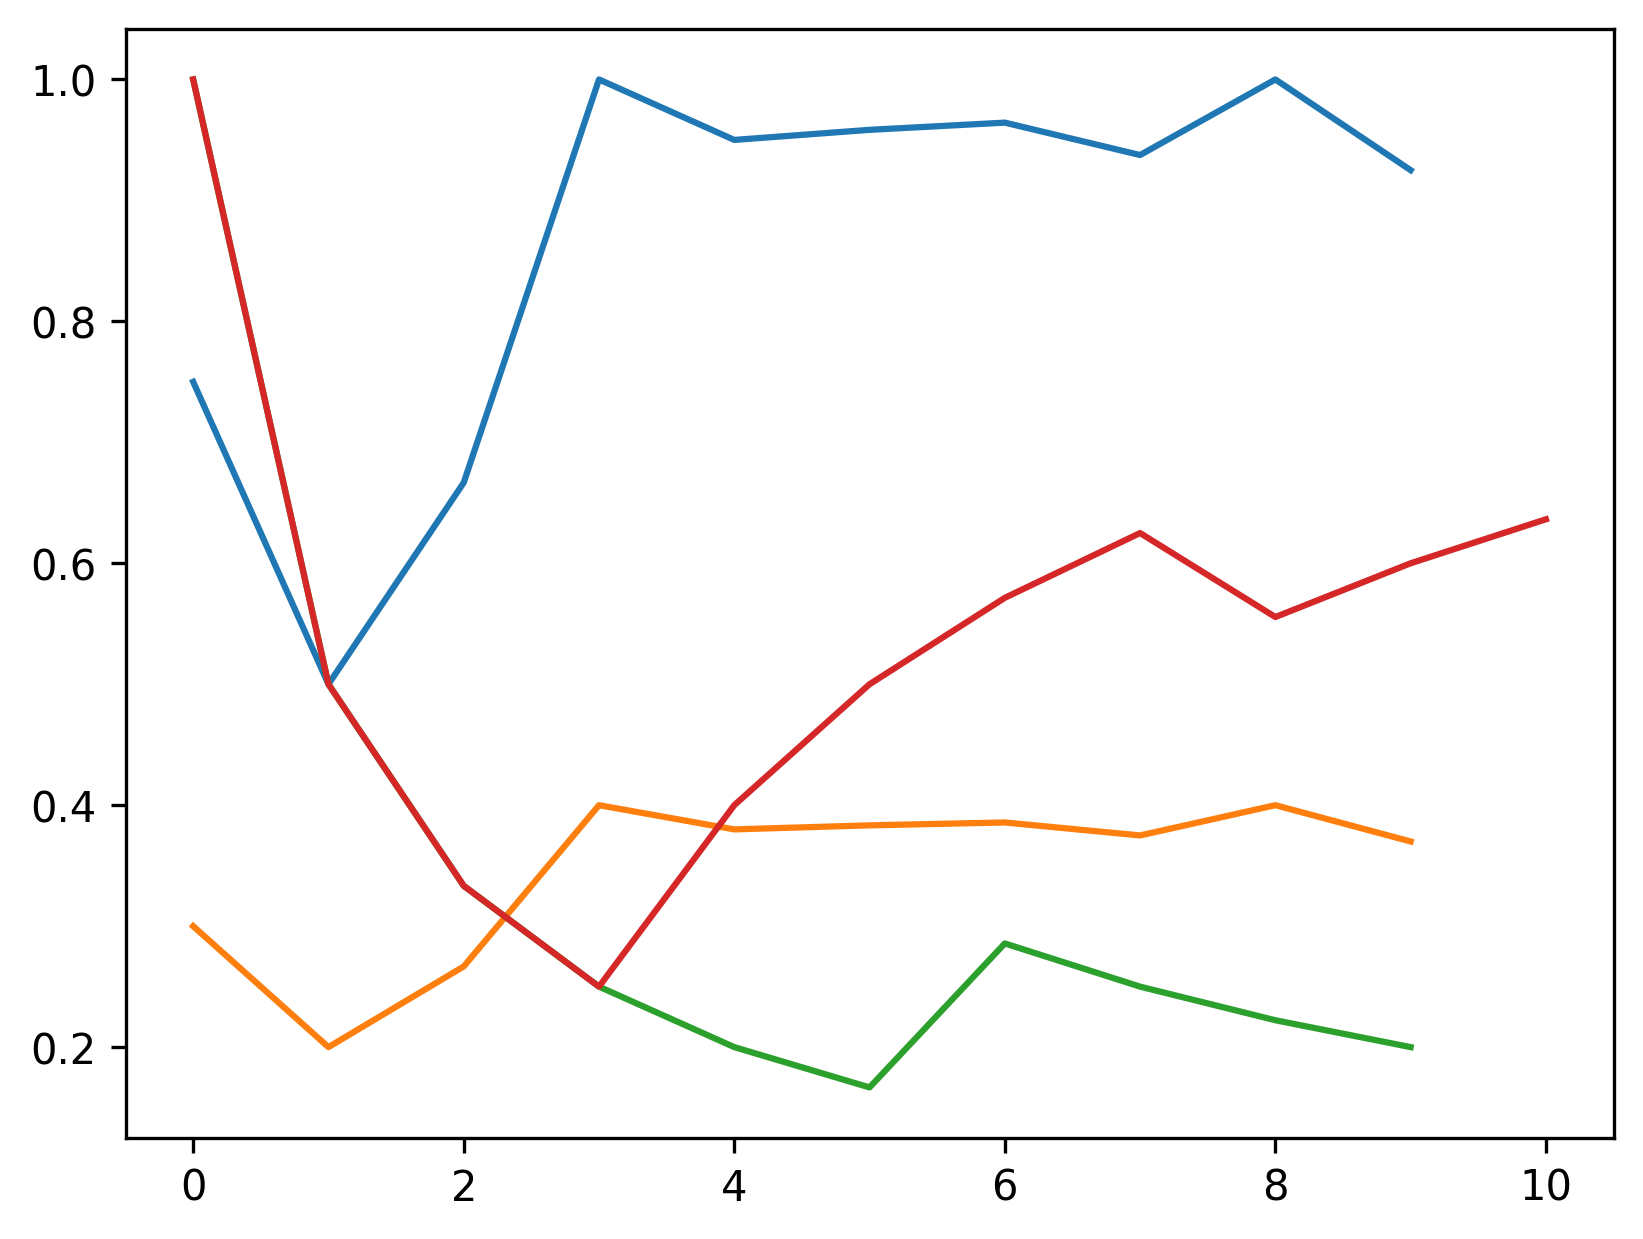
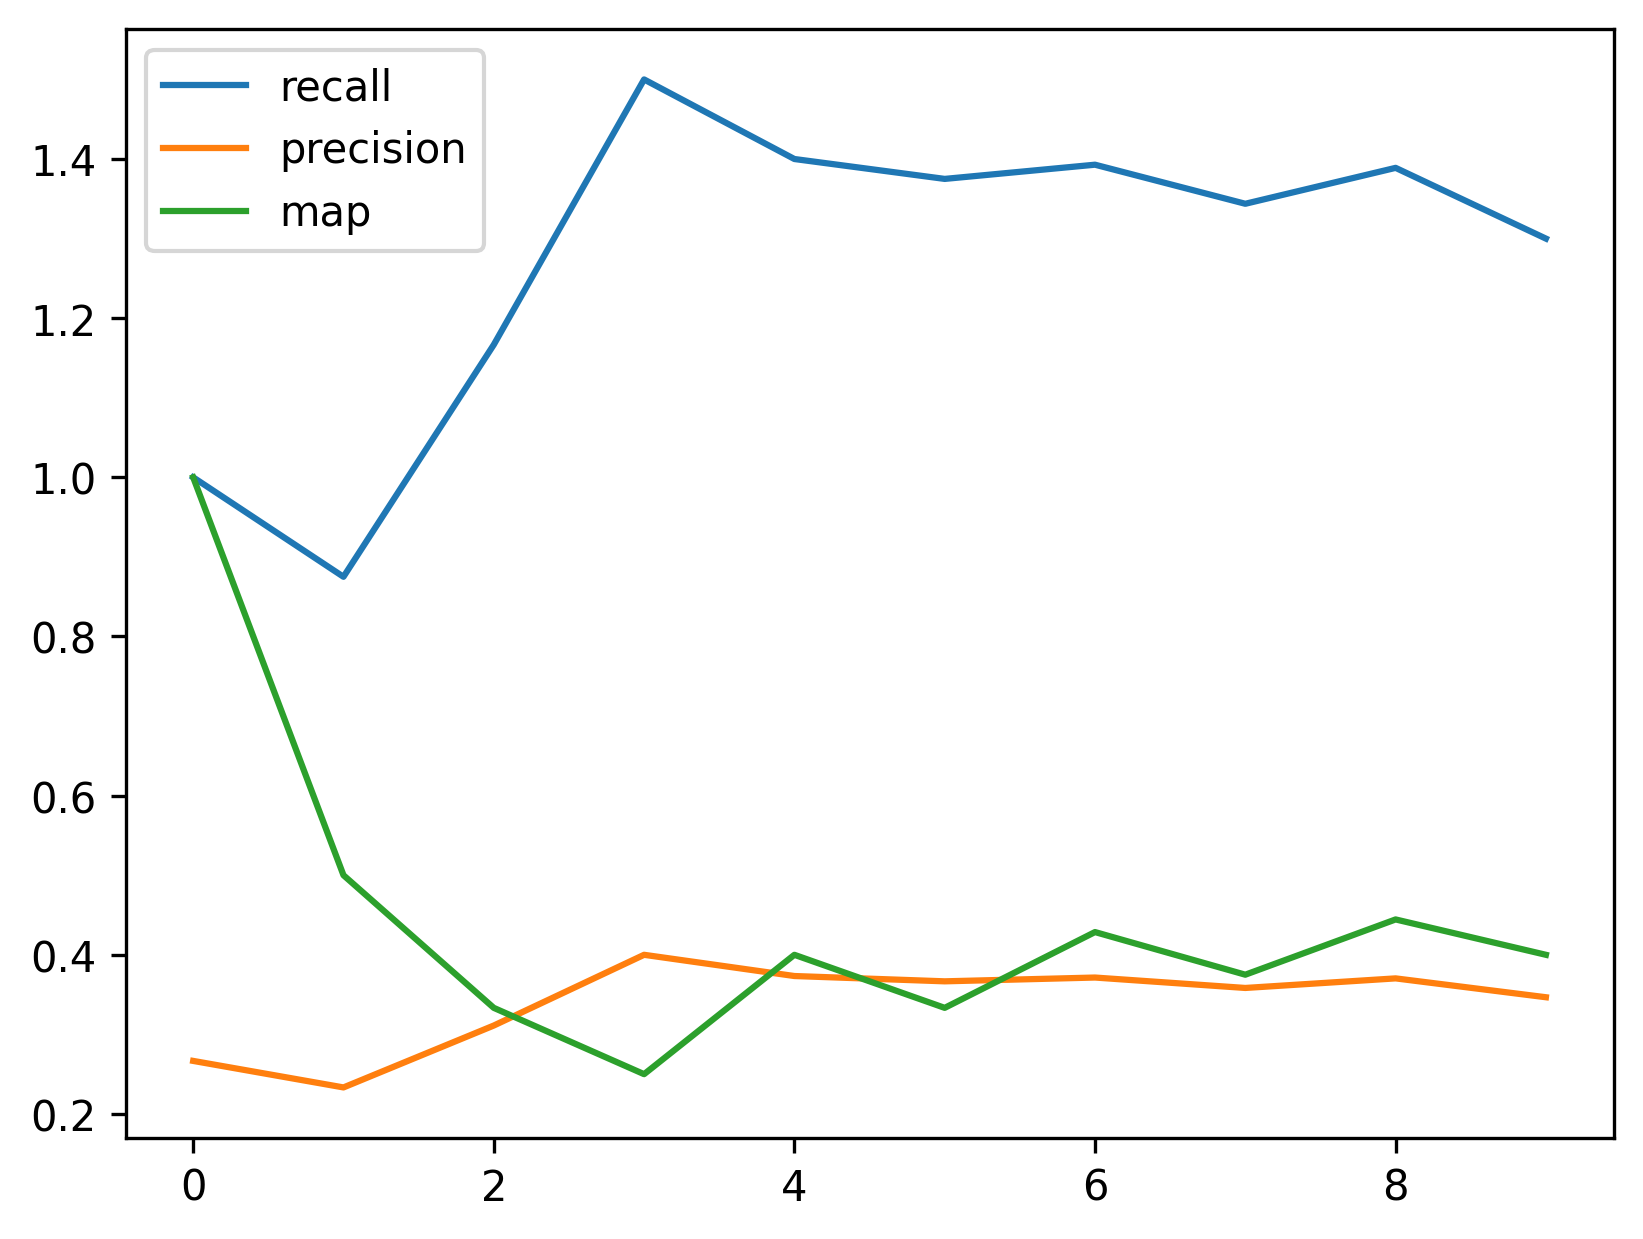
fixing markdown creatio issues

diff --git a/src/chat/utils/utils.py b/src/chat/utils/utils.py
@@ -75,28 +75,37 @@ class Utils():
         
 class Markdown():
     def __init__(self,name):
+        self.name:str = name
         self.ut = Utils()
         self.color = TerminalColor()
 
         try:
             # Retrieval
             self.df_ret = self.ut.jsonl_reader(constants.data_path(name,'ret_result'))
-            self.df_ret_history = self.ut.jsonl_reader(constants.data_path(name,'ret_result_history'))
+            self.df_ret_history= self.ut.jsonl_reader(constants.data_path(name,'ret_result_history'))
 
             # LLM
             self.df_llm = self.ut.jsonl_reader(constants.data_path(name,'llm_result'))
             self.df_llm__history = self.ut.jsonl_reader(constants.data_path(name,'llm_result_history'))
 
-            # Plots
-            self.ret_plot = constants.data_path(name,'ret_plot')
-            self.ret_history_plot = constants.data_path(name,'ret_history_plot')
-            self.llm_plot = constants.data_path(name,'ret_plot')
-            self.llm_history_plot = constants.data_path(name,'llm_history_plot')
+            # Plots Directory
+            self.plot_path = constants.data_path('telmart','result_plots')
 
-            # Report file
+            # Retireval Plots
+            self.ret_plot = constants.data_path(name,'ret_plot')
+
+            # LLM Plots
+            self.llm_plot = constants.data_path(name,'llm_plot')
+
+            # Markdown file: Report
             self.report_file = constants.data_path(name,'evaluation_report')
-            self.ret_history_plot_md = constants.data_path(name,'ret_history_plot_md')
-            self.llm_history_plot_md = constants.data_path(name,'llm_history_plot_md')
+
+            # Markdown plots path - Retrieval
+            self.ret_plot_md = constants.data_path(name,'ret_plot_md')
+
+            # Markdown plots path - LLM
+            self.llm_plot_md = constants.data_path(name,'llm_plot_md')
+
 
 
         except FileNotFoundError as e :
@@ -109,8 +118,9 @@ class Markdown():
             raise FileNotFoundError(f"Can not initializae Markdown class and create markdown report, because of lack of some the files.\nmake sure use {self.color.yellow('--new')} flag to run the evaluator and generate necessary outputs (jsonl outputs and plots)\nError: {e}\n")
             
 
-
-
+    def path_creation(self):
+        if not os.path.exists(self.plot_path):
+            os.mkdir(self.plot_path)
 
     def save_file(self,content):
         with open(self.report_file,'w',encoding='utf-8') as file:
@@ -119,65 +129,62 @@ class Markdown():
 
     def markdown_creator(self):
 
-        # Creating Visualizations
-        try:
-            visualization = self.visualization()
-        except Exception as e:
-            print(f"An error in visualization: {e}\n")
+        # Creating required directories
+        self.path_creation()
 
-        try:
-            if visualization:
+        # Retrieval Plot Creation
+        self.plot_creator(self.df_ret,self.ret_plot)
 
-                intro = "# Evaluation result: \n"
+        # LLM Plot Creation
+        self.plot_creator(self.df_llm,self.llm_plot)
 
-                # Retrieval Result
-                retrieval_table = f"## Retrieval Evaluation{self.table_creator(self.df_ret)}"
-                retrieval_plot = self.image_creator(self.ret_plot)
+        # Intro
+        intro = constants.REPORT_INTRO.format(name=self.name.capitalize())
 
-                ending = "Thank you for reviewing this information"
+        # Retrieval Result
+        ret_intro = constants.RET_REPORT_INTRO
+        ret_table = f"{self.table_creator(self.df_ret)}"
+        ret_plot = self.image_creator(self.ret_plot_md)
+        ret_history_table = f"### History\n{self.table_creator(self.df_ret_history)}"
 
-                # Shaping final content
-                content = f"""{intro}{retrieval_table}{retrieval_plot}{ending}"""
+        # LLM Result
+        llm_intro = constants.LLM_REPORT_INTRO
+        llm_table = f"{self.table_creator(self.df_llm)}"
+        llm_plot = self.image_creator(self.llm_plot_md)
+        llm_history_table = f"### History\n{self.table_creator(self.df_llm__history)}"
 
-                report_file = self.save_file(content)
+        # Ending
+        ending = constants.REPORT_ENDING
 
-                return report_file
-        except UnboundLocalError as e :
-            print(f"UnboundLocalError in markdown_creator method : {e}\n")
+        # Shaping final content
+        content = self.template_creator([intro,ret_intro,ret_table,ret_plot,ret_history_table,llm_intro,llm_table,llm_plot,llm_history_table,ending])
 
-
+        report_file = self.save_file(content)
+        return report_file
+    
     def table_creator(self,df:pd.DataFrame):
         table = df.to_markdown()
         table = f"\n\n{table}\n\n"
         return table
 
-
-    def visualization(self):
-        # Making sure the path is existed
-        plot_path = constants.data_path('telmart','result_plots')
-        if not os.path.exists(plot_path):
-            os.mkdir(plot_path)
-
-        # Creating line plot for retriever metrics (evaluation process)
-        for col in self.df_ret.columns.to_list():
-            plt.plot(self.df_ret[col.__str__()])
-        plt.savefig(self.ret_plot , dpi=300, bbox_inches='tight')
-
-        # Creating line plot for llm metrics (evaluation process)
-        for col in self.df_llm.columns.to_list():
-            plt.plot(self.df_llm[col.__str__()])
-        plt.savefig(self.llm_plot, dpi=300, bbox_inches='tight')
-
-
-        return True
+    def plot_creator(self,df:pd.DataFrame,path:str):
+        for col in df.columns:
+            plt.plot(df[col],label=col)
+        plt.legend()
+        plt.savefig(path , dpi=300, bbox_inches='tight')
+        plt.close()
 
     def image_creator(self,image_path):
-        image = f"![](plots/retrieval.png)"
+        image = f"![]({image_path})"
         image = f"\n\n{image}\n\n"
 
         return image
 
-
+    def template_creator(self,content_list:list):
+        """
+        This functions adds a \n between each content item to make sure of no disorder in the markdown file
+        """
+        return "\n\n".join(content_list)
 
 class TerminalColor():
     def __init__(self):

diff --git a/src/chat/constants.py b/src/chat/constants.py
@@ -52,6 +52,17 @@ def demo_telegram_verify_messsage(code):
 
 def data_path(name:str,key_path:'str'):
     main_path = f"data/knowledge_base/{name}/"
+
+
+    # this path are used in creation markdown files, they are relative to markdown report file
+    markdown_path = {
+        # Retrieval Markdown 
+        "ret_plot_md" : "plots/retrieval.png",
+
+        # LLM Markdown
+        "llm_plot_md" : "plots/llm.png",
+        }
+
     path_dict =  {
 
         # Initial Data
@@ -74,19 +85,16 @@ def data_path(name:str,key_path:'str'):
 
         # Plots 
         "result_plots" :"result/plots",
-        "ret_plot" :"result/plots/retrieval.png",
-        "ret_history_plot" :"result/plots/retrieval.png",
-        "llm_plot" :"result/plots/llm.png",
-        "llm_history_plot" :"result/plots/llm.png",
-        "ret_plot_md" : "plots/retrieval.png",
-        "llm_plot_md" : "plots/llm.png",
-        "ret_history_plot_md" : "plots/retrieval.png",
-        "llm_history_plot_md" : "plots/llm.png",
+        "ret_plot" :f"result/{markdown_path["ret_plot_md"]}",
+        "llm_plot" :f"result/{markdown_path["llm_plot_md"]}",
     }
 
     for i in path_dict:
         path_dict[i] = main_path + path_dict[i]
 
+
+    # adding markdown_path dict to path_dict 
+    path_dict = path_dict | markdown_path
     try:
         return path_dict[key_path]
     except KeyError as e :
@@ -120,3 +128,9 @@ RC_DETAILS = {
 
     RAG_COMPONENTS["Audio Transcription"] : {"model" : OPENAI_TRANSCRIPTION_MODEL ,"type" : "transciber" , "output" : "response", "job" : "transcribing a audio file to text"},
 }
+
+# Report File
+REPORT_INTRO = "# {name} RAG System Evaluation"
+RET_REPORT_INTRO = "## Retrieval Evaluation"
+LLM_REPORT_INTRO = "## LLM Evaluation"
+REPORT_ENDING = "Thank you for reviewing this report."

diff --git a/src/chat/management/commands/rag_evaluation.py b/src/chat/management/commands/rag_evaluation.py
@@ -67,8 +67,8 @@ class Command(BaseCommand):
                             new_values = f"\n{'-'*10}\nbeta: {beta} \ntop_k: {top_k}\n{'-'*10}\n"
                             print(f"\nNew values: {new_values}\n")
 
-                            # instantiate rag metrics with updated values
-                            ragmetrics = RagMetrics(model=constants.OPENAI_CHAT_MODEL,top_k=top_k,beta=beta)
+                            # re-instantiate rag metrics with updated values
+                            ragmetrics = RagMetrics(name=name,model=constants.OPENAI_CHAT_MODEL,top_k=top_k,beta=beta)
 
                             # Retrieval Metrics
                             retrieveal_metrics = ragmetrics.retrieveal_metrics()
@@ -122,4 +122,3 @@ class Command(BaseCommand):
             # python manage.py rag_evaluation
         except TypeError as e :
             print(f"Type Error in rag_evaluation.py : {e}")
-            raise e

diff --git a/src/data/knowledge_base/telmart/result/telmart_evaluation_report.md b/src/data/knowledge_base/telmart/result/telmart_evaluation_report.md
@@ -1,21 +1,79 @@
-# Evaluation result: 
+# Telmart RAG System Evaluation
+
 ## Retrieval Evaluation
+
+
 
 |    |   recall |   precision |      map |
 |---:|---------:|------------:|---------:|
-|  0 | 0.75     |    0.3      | 1        |
-|  1 | 0.5      |    0.2      | 0.5      |
-|  2 | 0.666667 |    0.266667 | 0.333333 |
-|  3 | 1        |    0.4      | 0.25     |
-|  4 | 0.95     |    0.38     | 0.2      |
-|  5 | 0.958333 |    0.383333 | 0.166667 |
-|  6 | 0.964286 |    0.385714 | 0.285714 |
-|  7 | 0.9375   |    0.375    | 0.25     |
-|  8 | 1        |    0.4      | 0.222222 |
-|  9 | 0.925    |    0.37     | 0.2      |
+|  0 |  1       |    0.266667 | 1        |
+|  1 |  0.875   |    0.233333 | 0.5      |
+|  2 |  1.16667 |    0.311111 | 0.333333 |
+|  3 |  1.5     |    0.4      | 0.25     |
+|  4 |  1.4     |    0.373333 | 0.4      |
+|  5 |  1.375   |    0.366667 | 0.333333 |
+|  6 |  1.39286 |    0.371429 | 0.428571 |
+|  7 |  1.34375 |    0.358333 | 0.375    |
+|  8 |  1.38889 |    0.37037  | 0.444444 |
+|  9 |  1.3     |    0.346667 | 0.4      |
+
+
 
 
 
 ![](plots/retrieval.png)
 
-Thank you for reviewing this information
+
+
+### History
+
+
+|    |   top_k |   beta |   precision |   recall |   map_at | time                |
+|---:|--------:|-------:|------------:|---------:|---------:|:--------------------|
+|  0 |      10 |    0   |    0.37     |    0.925 |      0.2 | 2026-06-12 20:42:19 |
+|  1 |      10 |    0   |    0.37     |    0.925 |      0.2 | 2026-06-14 17:56:38 |
+|  2 |      10 |    0   |    0.37     |    0.925 |      0.2 | 2026-06-14 18:20:49 |
+|  3 |       5 |    0.5 |    0.3      |    0.375 |      0.4 | 2026-06-14 18:23:39 |
+|  4 |      15 |    0.5 |    0.346667 |    1.3   |      0.4 | 2026-06-14 18:26:34 |
+
+
+
+## LLM Evaluation
+
+
+
+|    |   accuracy |
+|---:|-----------:|
+|  0 |   0        |
+|  1 |   0        |
+|  2 |   0        |
+|  3 |   0        |
+|  4 |   0.2      |
+|  5 |   0.333333 |
+|  6 |   0.428571 |
+|  7 |   0.5      |
+|  8 |   0.444444 |
+|  9 |   0.5      |
+| 10 |   0.545455 |
+
+
+
+
+
+![](plots/llm.png)
+
+
+
+### History
+
+
+|    |   top_k |   beta |   accuracy | time                |
+|---:|--------:|-------:|-----------:|:--------------------|
+|  0 |      10 |    0   |   0.636364 | 2026-06-12 20:42:51 |
+|  1 |      10 |    0   |   0.636364 | 2026-06-14 17:57:07 |
+|  2 |       5 |    0.5 |   0.454545 | 2026-06-14 18:24:06 |
+|  3 |      15 |    0.5 |   0.545455 | 2026-06-14 18:26:59 |
+
+
+
+Thank you for reviewing this report.